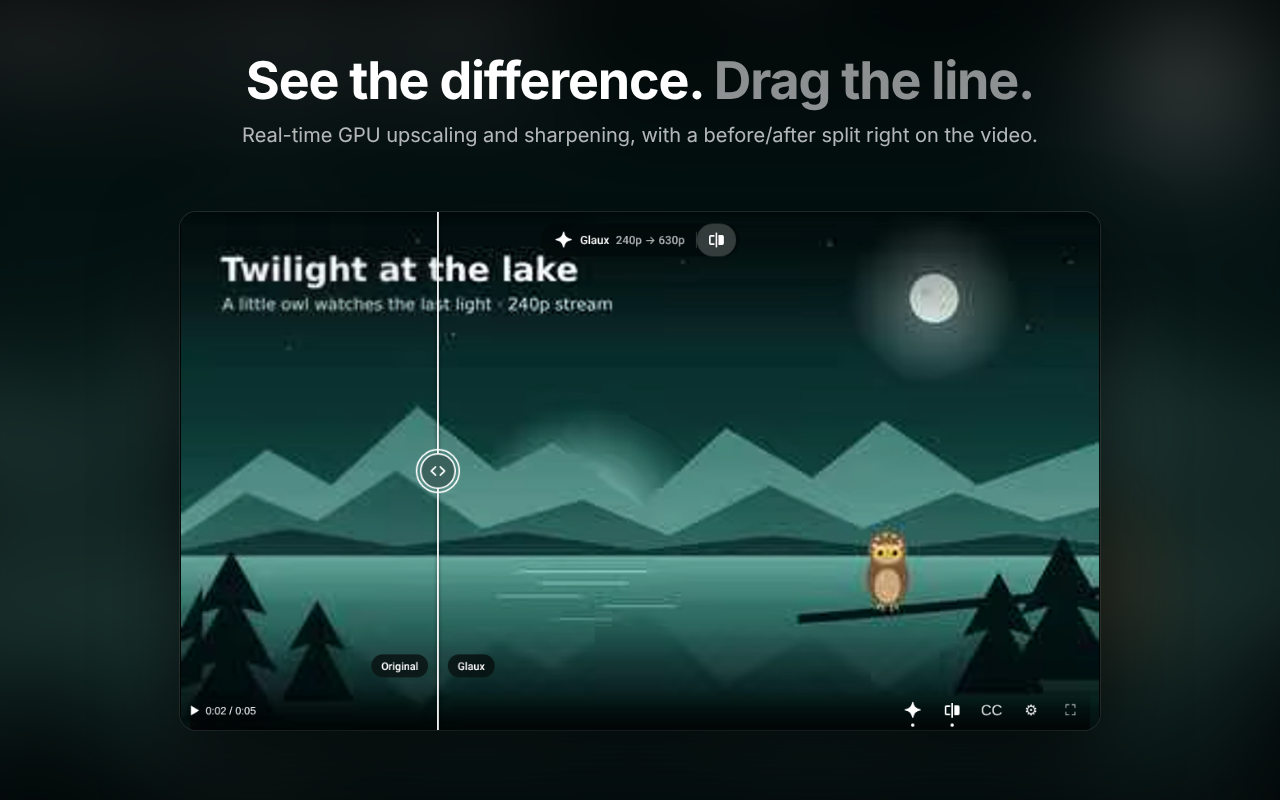
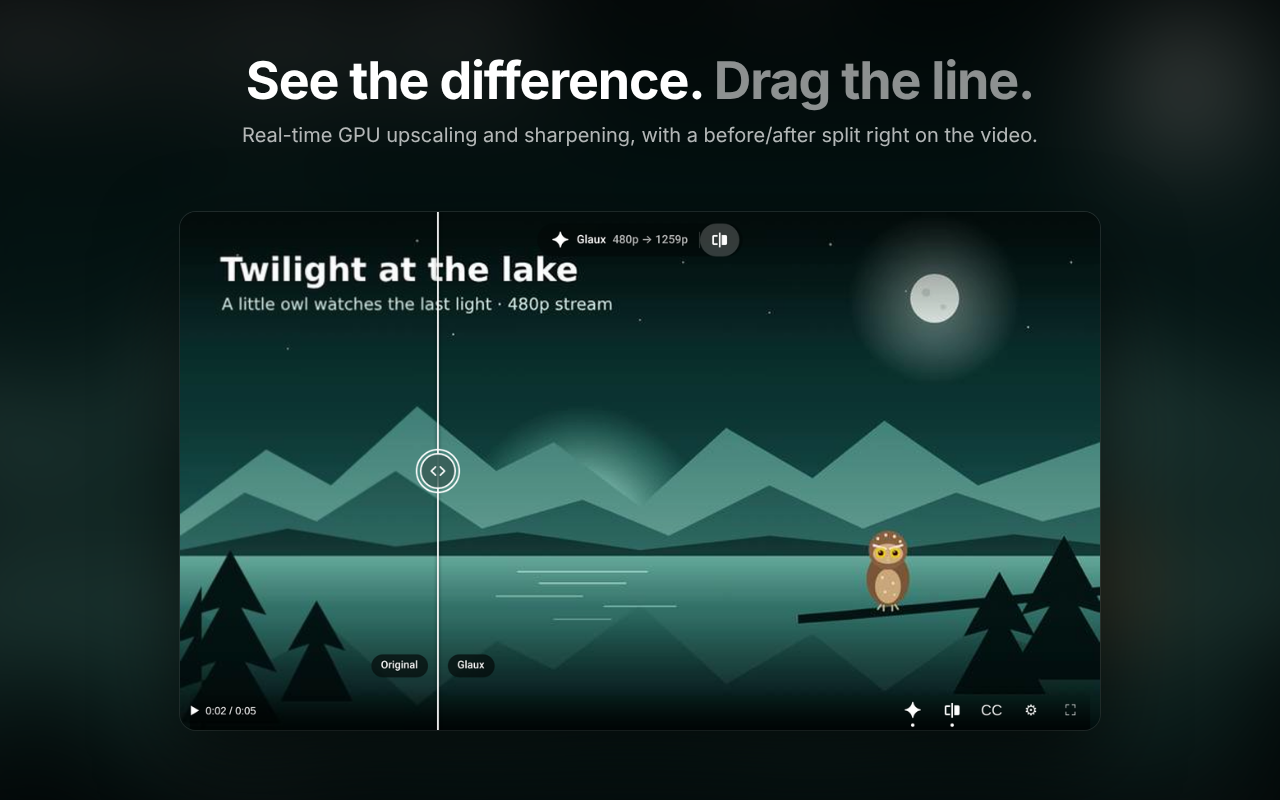
README hero: 480p source, larger player, captured at 2x

Changed region(s): [[0.1562, 0.2812, 0.5938, 0.4062], [0.6875, 0.6562, 0.7188, 0.7812], [0.2812, 0.8125, 0.375, 0.8438]]

diff --git a/README.pt-BR.md b/README.pt-BR.md
@@ -23,7 +23,7 @@
 </p>
 
 <p align="center">
-  <img src="docs/hero-pt_BR.png" width="820" alt="Comparação antes/depois num vídeo 240p">
+  <img src="docs/hero-2-pt_BR.png" width="860" alt="Comparação antes/depois num vídeo 480p">
 </p>
 
 ---

diff --git a/README.md b/README.md
@@ -23,7 +23,7 @@
 </p>
 
 <p align="center">
-  <img src="docs/hero-en.png" width="820" alt="Before/after split on a 240p video">
+  <img src="docs/hero-2-en.png" width="860" alt="Before/after split on a 480p video">
 </p>
 
 ---
